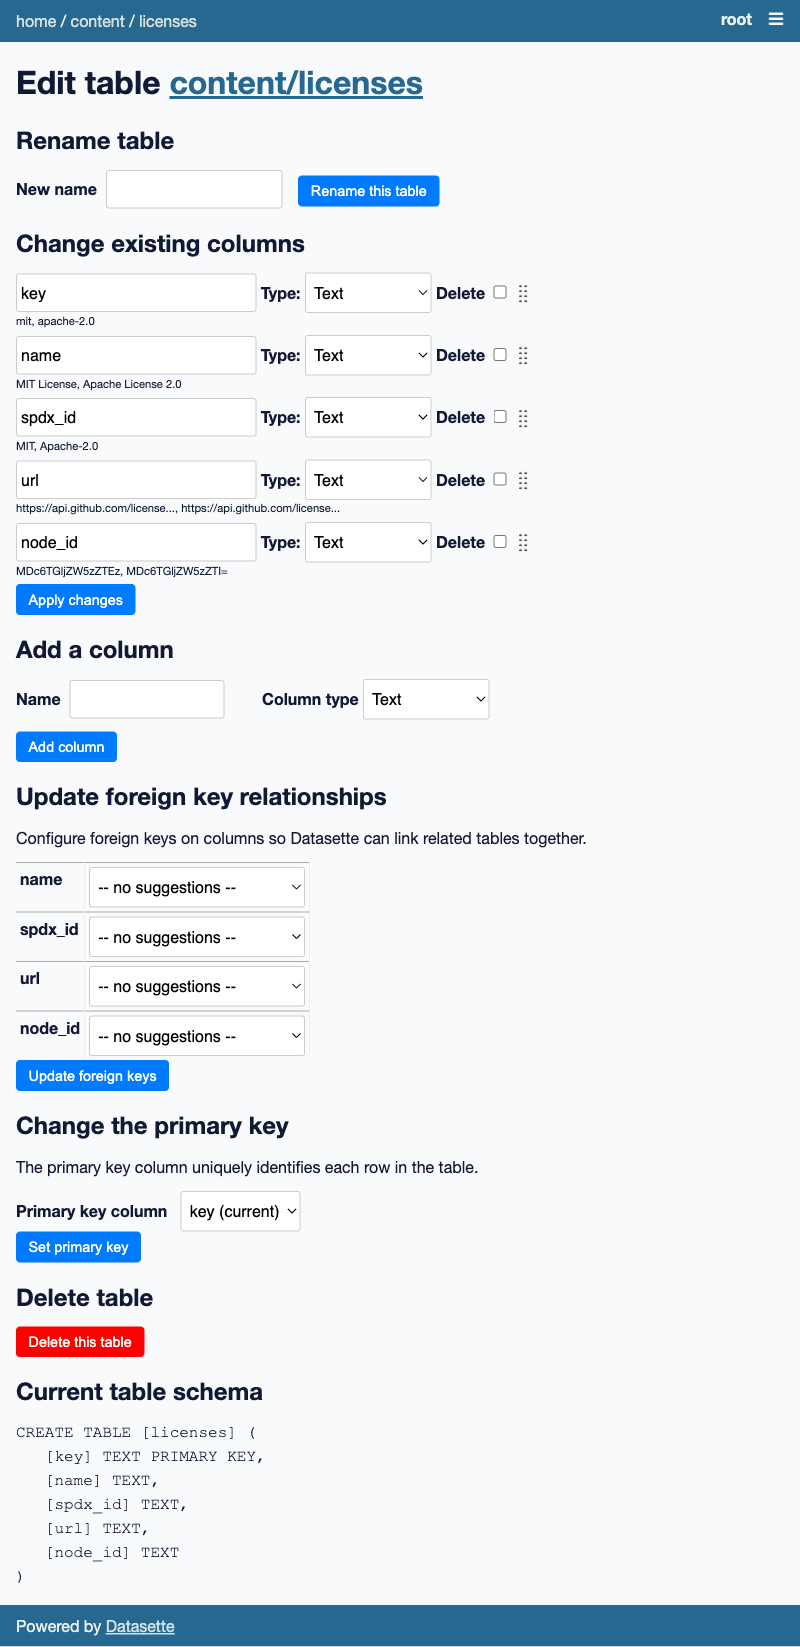
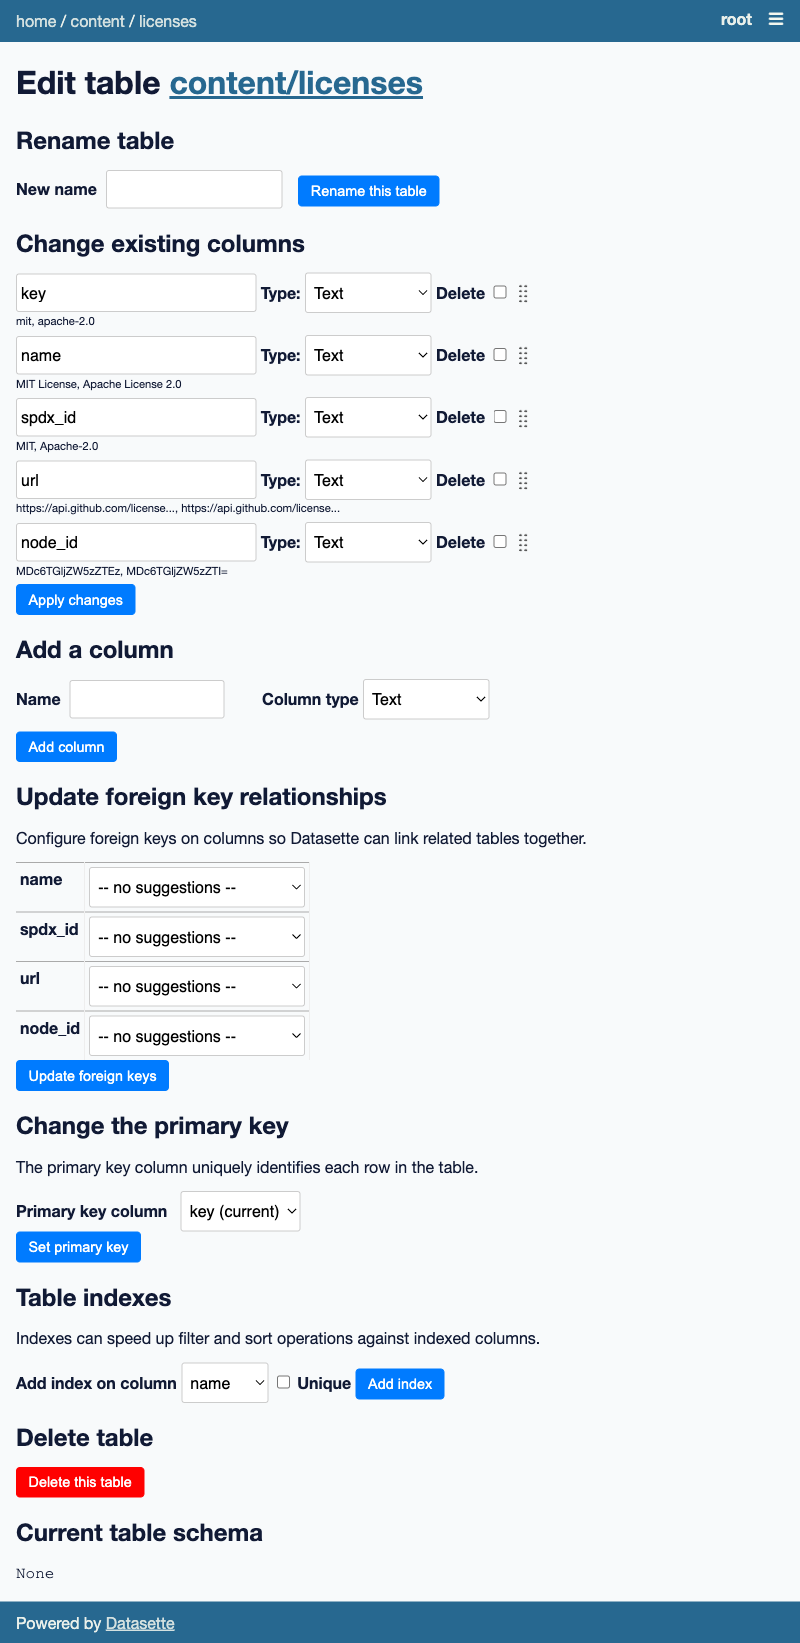
Add and remove column indexes
Closes #27

diff --git a/datasette_edit_schema/templates/edit_schema_table.html b/datasette_edit_schema/templates/edit_schema_table.html
@@ -14,6 +14,13 @@ html body input[type="search"] {
     font-size: 1em;
     font-family: Helvetica, sans-serif;
 }
+body form .button-red {
+    background-color: red;
+    border-color: red;
+}
+body form .button-small {
+    font-size: 0.7em;
+}
 select {
     border: 1px solid #ccc;
     border-radius: 3px;
@@ -183,15 +190,46 @@ table.foreign-key-options td {
     </form>
 {% endif %}
 
+{% if non_primary_key_columns or existing_indexes %}
+    <h2>Table indexes</h2>
+
+    <p>Indexes can speed up filter and sort operations against indexed columns.</p>
+
+    <form action="{{ base_url }}-/edit-schema/{{ database.name|quote_plus }}/{{ table|quote_plus }}" method="post">
+        <input type="hidden" name="csrftoken" value="{{ csrftoken() }}">
+        {% if non_primary_key_columns %}
+            <p><label for="id_add_index_column">
+                Add index on column
+            </label> <select name="add_index_column" id="id_add_index_column">
+                {% for column in non_primary_key_columns %}
+                    <option value="{{ column.name }}">{{ column.name }}</option>
+                {% endfor %}
+            </select>
+            <label><input type="checkbox" name="add_index_unique"> Unique</label>
+            <input type="submit" name="add_index" value="Add index">
+        </p>
+        {% endif %}
+        {% if existing_indexes %}
+            <h3>Existing indexes</h3>
+            {% for index in existing_indexes %}
+                <p>
+                    <strong>{{ index.name }}</strong>
+                    {% if index.unique %} (unique){% endif %}
+                    on column{{ 's' if index.columns[1:] else '' }}
+                    <code>{{ index.columns|join(', ') }}</code>
+                    <input class="button-red button-small" type="submit" name="drop_index_{{ index.name }}" value="Drop index">
+                </p>
+            {% endfor %}
+        {% endif %}
+    </form>
+{% endif %}
+
 <h2>Delete table</h2>
 
 <form id="delete-table-form" action="{{ base_url }}-/edit-schema/{{ database.name|quote_plus }}/{{ table|quote_plus }}" method="post">
     <input type="hidden" name="csrftoken" value="{{ csrftoken() }}">
     <input type="hidden" name="delete_table" value="1">
-    <input type="submit" style="
-        background-color: red;
-        border-color: red;
-  " value="Delete this table">
+    <input type="submit" class="button-red" value="Delete this table">
 </form>
 
 <h2>Current table schema</h2>

diff --git a/datasette_edit_schema/__init__.py b/datasette_edit_schema/__init__.py
@@ -3,6 +3,7 @@ from datasette.utils.asgi import Response, NotFound, Forbidden
 from datasette.utils import sqlite3
 from urllib.parse import quote_plus, unquote_plus
 import sqlite_utils
+import textwrap
 from .utils import (
     examples_for_columns,
     get_primary_keys,
@@ -331,20 +332,37 @@ async def edit_schema_table(request, datasette):
             return await add_column(request, datasette, database, table, formdata)
         elif "rename_table" in formdata:
             return await rename_table(request, datasette, database, table, formdata)
+        elif "add_index" in formdata:
+            column = formdata.get("add_index_column") or ""
+            unique = formdata.get("add_index_unique")
+            return await add_index(request, datasette, database, table, column, unique)
+        elif any(key.startswith("drop_index_") for key in formdata.keys()):
+            return await drop_index(request, datasette, database, table, formdata)
         else:
             return Response.html("Unknown operation", status=400)
 
-    def get_columns_and_schema_and_fks_and_pks(conn):
-        t = sqlite_utils.Database(conn)[table]
+    def get_columns_and_schema_and_fks_and_pks_and_indexes(conn):
+        db = sqlite_utils.Database(conn)
+        t = db[table]
         pks = set(t.pks)
         columns = [
             {"name": column, "type": dtype, "is_pk": column in pks}
             for column, dtype in t.columns_dict.items()
         ]
-        return columns, t.schema, t.foreign_keys, t.pks
+        # Include the index declarations in the schema as well
+        schema = db.execute(
+            textwrap.dedent(
+                """
+        select group_concat(sql, ';
+        ') from sqlite_master where tbl_name = 'Orders'
+        order by type desc
+        """
+            )
+        ).fetchone()[0]
+        return columns, schema, t.foreign_keys, t.pks, t.indexes
 
-    columns, schema, foreign_keys, pks = await database.execute_fn(
-        get_columns_and_schema_and_fks_and_pks
+    columns, schema, foreign_keys, pks, indexes = await database.execute_fn(
+        get_columns_and_schema_and_fks_and_pks_and_indexes
     )
     foreign_keys_by_column = {}
     for fk in foreign_keys:
@@ -478,6 +496,13 @@ async def edit_schema_table(request, datasette):
                     }
                 )
 
+    # Don't let users drop sqlite_autoindex_* indexes
+    existing_indexes = [
+        index for index in indexes if not index.name.startswith("sqlite_autoindex_")
+    ]
+    # Only allow index creation on non-primary-key columns
+    non_primary_key_columns = [c for c in columns if not c["is_pk"]]
+
     return Response.html(
         await datasette.render_template(
             "edit_schema_table.html",
@@ -495,6 +520,8 @@ async def edit_schema_table(request, datasette):
                 "potential_pks": potential_pks,
                 "is_rowid_table": bool(pks == ["rowid"]),
                 "current_pk": pks[0] if len(pks) == 1 else None,
+                "existing_indexes": existing_indexes,
+                "non_primary_key_columns": non_primary_key_columns,
             },
             request=request,
         )
@@ -677,4 +704,49 @@ async def update_primary_key(request, datasette, database, table, formdata):
                 formdata["primary_key"],
             ),
         )
+    return Response.redirect(request.path)
+
+
+async def add_index(request, datasette, database, table, column, unique):
+    if not column:
+        datasette.add_message(request, "Column name is required", datasette.ERROR)
+        return Response.redirect(request.path)
+
+    def run(conn):
+        db = sqlite_utils.Database(conn)
+        with conn:
+            db[table].create_index([column], find_unique_name=True, unique=unique)
+
+    try:
+        await database.execute_write_fn(run, block=True)
+        message = "Index added on "
+        if unique:
+            message = "Unique index added on "
+        message += column
+        datasette.add_message(request, message)
+    except Exception as e:
+        datasette.add_message(request, str(e), datasette.ERROR)
+    return Response.redirect(request.path)
+
+
+async def drop_index(request, datasette, database, table, formdata):
+    to_drops = [
+        key[len("drop_index_") :]
+        for key in formdata.keys()
+        if key.startswith("drop_index_")
+    ]
+    if to_drops:
+        to_drop = to_drops[0]
+
+        def run(conn):
+            with conn:
+                conn.execute("DROP INDEX [{}]".format(to_drop))
+
+        try:
+            await database.execute_write_fn(run, block=True)
+            datasette.add_message(request, "Index dropped: {}".format(to_drop))
+        except Exception as e:
+            datasette.add_message(request, str(e), datasette.ERROR)
+    else:
+        datasette.add_message(request, "No index name provided", datasette.ERROR)
     return Response.redirect(request.path)

diff --git a/tests/test_edit_schema.py b/tests/test_edit_schema.py
@@ -84,6 +84,19 @@ def db_and_path(tmpdir):
         pk="id",
         foreign_keys=(("distraction_id", "distractions"),),
     )
+    db["has_indexes"].insert(
+        {
+            "id": 1,
+            "name": "Cleo",
+            "description": "A medium sized dog",
+        },
+        pk="id",
+    )
+    db["has_indexes"].create_index(["name"], index_name="name_index")
+    db["has_indexes"].create_index(
+        ["name"], index_name="name_unique_index", unique=True
+    )
+
     return db, path
 
 
@@ -113,7 +126,6 @@ async def test_csrf_required(db_path):
     (
         (False, "/data/creatures", False),
         (True, "/data/creatures", True),
-        (True, "/_internal/tables", False),
     ),
 )
 @pytest.mark.asyncio
@@ -758,3 +770,87 @@ def test_examples_for_columns():
         "name": ["Name 1", "Name 4", "Name 5", "Name 6", "Name 7"],
         "weight": ["2.3", "2.0", "1.7", "2.5", "1.9"],
     }
+
+
+@pytest.mark.asyncio
+@pytest.mark.parametrize(
+    "table,post_data,expected_message,expected_indexes",
+    (
+        (
+            "museums",
+            {"add_index": "1"},
+            "Column name is required",
+            [],
+        ),
+        (
+            "museums",
+            {"add_index": "1", "add_index_column": "name"},
+            "Index added on name",
+            [{"name": "idx_museums_name", "columns": ["name"], "unique": 0}],
+        ),
+        (
+            "museums",
+            {"add_index": "1", "add_index_column": "name", "add_index_unique": 1},
+            "Unique index added on name",
+            [{"name": "idx_museums_name", "columns": ["name"], "unique": 1}],
+        ),
+        (
+            "museums",
+            {"add_index": "1", "add_index_column": "city", "add_index_unique": 1},
+            "no such column: city",
+            [],
+        ),
+        (
+            "museums",
+            {"add_index": "1", "add_index_column": "city_id", "add_index_unique": 1},
+            "UNIQUE constraint failed: museums.city_id",
+            [],
+        ),
+        # Tests for removing an index
+        (
+            "has_indexes",
+            {"drop_index_bad": "1"},
+            "no such index: bad",
+            [
+                {"columns": ["name"], "name": "name_unique_index", "unique": 1},
+                {"columns": ["name"], "name": "name_index", "unique": 0},
+            ],
+        ),
+        (
+            "has_indexes",
+            {"drop_index_name_index": "1"},
+            "Index dropped: name_index",
+            [{"columns": ["name"], "name": "name_unique_index", "unique": 1}],
+        ),
+        (
+            "has_indexes",
+            {"drop_index_name_unique_index": "1"},
+            "Index dropped: name_unique_index",
+            [{"columns": ["name"], "name": "name_index", "unique": 0}],
+        ),
+    ),
+)
+async def test_add_remove_index(
+    db_path, table, post_data, expected_message, expected_indexes
+):
+    ds = Datasette([db_path])
+    cookies = {"ds_actor": ds.sign({"a": {"id": "root"}}, "actor")}
+    csrftoken = (
+        await ds.client.get("/-/edit-schema/data/{}".format(table), cookies=cookies)
+    ).cookies["ds_csrftoken"]
+    cookies["ds_csrftoken"] = csrftoken
+    post_data["csrftoken"] = csrftoken
+    response = await ds.client.post(
+        "/-/edit-schema/data/{}".format(table), cookies=cookies, data=post_data
+    )
+    assert response.status_code == 302
+    messages = ds.unsign(response.cookies["ds_messages"], "messages")
+    assert len(messages) == 1
+    assert messages[0][0] == expected_message
+    db = sqlite_utils.Database(db_path)
+    indexes = db[table].indexes
+    assert [
+        {"name": index.name, "columns": index.columns, "unique": index.unique}
+        for index in indexes
+        if "sqlite_autoindex" not in index.name
+    ] == expected_indexes

diff --git a/README.md b/README.md
@@ -17,6 +17,8 @@ Datasette plugin for modifying table schemas
 * Delete a table
 * Change the primary key of a table to another column containing unique values
 * Update the foreign key constraints on a table
+* Add an index (or unique index) to a column on a table
+* Drop an index from a table
 
 ## Installation
 
